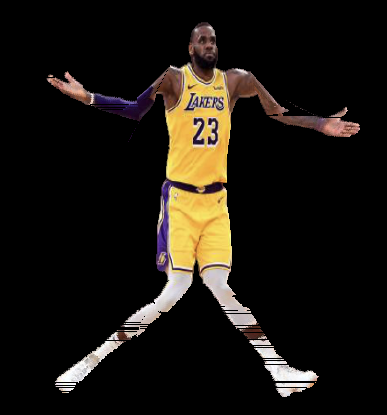
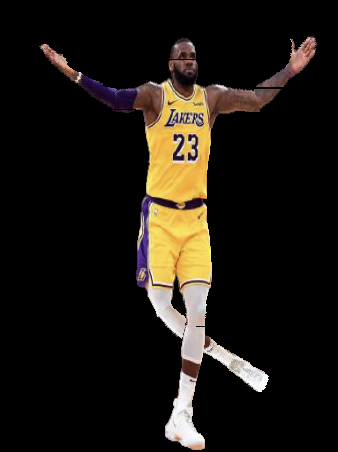
lower arm

Changed region(s): [[0.1183, 0.0578, 0.9467, 1.0]]

diff --git a/Data/Util.py b/Data/Util.py
@@ -147,7 +147,7 @@ class Util:
                 
         return trimmedBodyContour
 
-    def rotateContour(self, poseLine, contourPoints, angle, workImage, inputImage):
+    def rotateContour(self, poseLine, contourPoints, angleUpper, angleLower, workImage, inputImage):
         pointPartStart, pointPartEnd = poseLine
         
         startPointRange = self.findStartAndEnd(contourPoints, pointPartStart, pointPartStart, pointPartEnd)
@@ -164,13 +164,13 @@ class Util:
         wEndPointStart, hEndPointStart = contourPoints[endPointStartIndex]
         wEndPointEnd, hEndPointEnd = contourPoints[endPointEndIndex]
         
-        w2 = int((wEndPointEnd - w0) * math.cos(angle) - (hEndPointEnd - h0) * math.sin(angle) + w0)
-        h2 = int((wEndPointEnd - w0) * math.sin(angle) + (hEndPointEnd - h0) * math.cos(angle) + h0)
-        w3 = int((wEndPointStart - w0) * math.cos(angle) - (hEndPointStart - h0) * math.sin(angle) + w0)
-        h3 = int((wEndPointStart - w0) * math.sin(angle) + (hEndPointStart - h0) * math.cos(angle) + h0)
+        w2 = int((wEndPointEnd - w0) * math.cos(angleUpper) - (hEndPointEnd - h0) * math.sin(angleUpper) + w0)
+        h2 = int((wEndPointEnd - w0) * math.sin(angleUpper) + (hEndPointEnd - h0) * math.cos(angleUpper) + h0)
+        w3 = int((wEndPointStart - w0) * math.cos(angleUpper) - (hEndPointStart - h0) * math.sin(angleUpper) + w0)
+        h3 = int((wEndPointStart - w0) * math.sin(angleUpper) + (hEndPointStart - h0) * math.cos(angleUpper) + h0)
         
         rotatedContour = []
-        upperContour = []
+        lowerContour = []
         
         for point in startPointCutContour:
             rotatedContour.append(point)
@@ -178,17 +178,20 @@ class Util:
         # upper part
         for point in contourPoints[startPointStartIndex:endPointStartIndex]:
             w, h = point
-            wRotate = int((w - w0) * math.cos(angle) - (h - h0) * math.sin(angle) + w0)
-            hRotate = int((w - w0) * math.sin(angle) + (h - h0) * math.cos(angle) + h0)
+            wRotate = int((w - w0) * math.cos(angleUpper) - (h - h0) * math.sin(angleUpper) + w0)
+            hRotate = int((w - w0) * math.sin(angleUpper) + (h - h0) * math.cos(angleUpper) + h0)
             rotatedContour.append((wRotate, hRotate))
- 
+            
+        wRotateLower, hRotateLower = rotatedContour[-1]
         for point in endPointCutContour:
             w, h = point
-            wRotate = int((w - w0) * math.cos(angle) - (h - h0) * math.sin(angle) + w0)
-            hRotate = int((w - w0) * math.sin(angle) + (h - h0) * math.cos(angle) + h0)
-            rotatedContour.append((wRotate, hRotate))
-            upperContour.append((wRotate, hRotate))
-   
+            wRotate = int((w - w0) * math.cos(angleUpper) - (h - h0) * math.sin(angleUpper) + w0)
+            hRotate = int((w - w0) * math.sin(angleUpper) + (h - h0) * math.cos(angleUpper) + h0)
+            wRotate2 = int((wRotate - wRotateLower) * math.cos(angleLower) - (hRotate - hRotateLower) * math.sin(angleLower) + wRotateLower)
+            hRotate2 = int((wRotate - wRotateLower) * math.sin(angleLower) + (hRotate - hRotateLower) * math.cos(angleLower) + hRotateLower)
+            rotatedContour.append((wRotate2, hRotate2))
+            lowerContour.append((wRotate2, hRotate2))
+        
         controlPointsInput = [contourPoints[startPointStartIndex], contourPoints[startPointEndIndex], contourPoints[endPointEndIndex]]
         controlPointsOutput = [contourPoints[startPointStartIndex], contourPoints[startPointEndIndex], (w2, h2)]
   
@@ -198,17 +201,29 @@ class Util:
         
         upperContourInput = [contourPoints[startPointStartIndex], contourPoints[startPointEndIndex], contourPoints[endPointStartIndex], contourPoints[endPointEndIndex]]
         upperContourOutput = [contourPoints[startPointStartIndex], contourPoints[startPointEndIndex], (w3, h3), (w2, h2)]
-        self.drawMappedContour(rotatedContour, workImage, inputImage, upperContourOutput, upperContourInput)
+        upperContourRefine = []
+        for i in range(0, len(rotatedContour) - 1):
+          for point in self.getInterpolatePoints(rotatedContour[i], rotatedContour[i+1]):
+            upperContourRefine.append(point) 
+        self.drawMappedContour(upperContourRefine, workImage, inputImage, upperContourOutput, upperContourInput)
         
         
         #lower part
+        #wRotateLower, hRotateLower = lowerContour[0]
         for point in contourPoints[endPointStartIndex:endPointEndIndex]:
             w, h = point
-            wRotate = int((w - w0) * math.cos(angle) - (h - h0) * math.sin(angle) + w0)
-            hRotate = int((w - w0) * math.sin(angle) + (h - h0) * math.cos(angle) + h0)
-            rotatedContour.append((wRotate, hRotate))
-            upperContour.append((wRotate, hRotate))
-        self.drawRotatedContour(upperContour, workImage, inputImage, -angle, w0, h0)
+            wRotate = int((w - w0) * math.cos(angleUpper) - (h - h0) * math.sin(angleUpper) + w0)
+            hRotate = int((w - w0) * math.sin(angleUpper) + (h - h0) * math.cos(angleUpper) + h0)
+            wRotate2 = int((wRotate - wRotateLower) * math.cos(angleLower) - (hRotate - hRotateLower) * math.sin(angleLower) + wRotateLower)
+            hRotate2 = int((wRotate - wRotateLower) * math.sin(angleLower) + (hRotate - hRotateLower) * math.cos(angleLower) + hRotateLower)
+            rotatedContour.append((wRotate2, hRotate2))
+            lowerContour.append((wRotate2, hRotate2))
+            
+        lowerContourRefine = []
+        for i in range(0, len(lowerContour) - 1):
+          for point in self.getInterpolatePoints(lowerContour[i], lowerContour[i+1]):
+            lowerContourRefine.append(point)    
+        self.drawRotatedContour(lowerContourRefine, workImage, inputImage, -angleUpper, w0, h0, -angleLower, wRotateLower, hRotateLower)
         
         return rotatedContour
 
@@ -260,7 +275,7 @@ class Util:
             controlPointsOutput = [upperContourOutput[1], upperContourOutput[2], upperContourOutput[3]]
             return self.mapPoint(point, controlPointsInput, controlPointsOutput)
 
-    def drawRotatedContour(self, contour, workImage, inputImage, angle, w0, h0):
+    def drawRotatedContour(self, contour, workImage, inputImage, angleUpper, w0, h0, angleLower, wLower, hLower):
       hMin = self.inHeight
       hMax = -1
       for point in contour:
@@ -281,10 +296,12 @@ class Util:
             if w > wMax:
               wMax = w
         for w in range(wMin, wMax):
-          wRotate = int((w - w0) * math.cos(angle) - (h - h0) * math.sin(angle) + w0)
-          hRotate = int((w - w0) * math.sin(angle) + (h - h0) * math.cos(angle) + h0)
+          wRotate = int((w - w0) * math.cos(angleUpper) - (h - h0) * math.sin(angleUpper) + w0)
+          hRotate = int((w - w0) * math.sin(angleUpper) + (h - h0) * math.cos(angleUpper) + h0)
+          wRotate2 = int((wRotate - wLower) * math.cos(angleLower) - (hRotate - hLower) * math.sin(angleLower) + wLower)
+          hRotate2 = int((wRotate - wLower) * math.sin(angleLower) + (hRotate - hLower) * math.cos(angleLower) + hLower)
             
-          workImage[h, w] = inputImage[hRotate, wRotate]   
+          workImage[h, w] = inputImage[hRotate2, wRotate2]   
     
     def drawMappedContour(self, contour, workImage, inputImage, upperContourInput, upperContourOutput):
       hMin = self.inHeight

diff --git a/main.py b/main.py
@@ -28,22 +28,22 @@ util.drawContour(bodyContour, workImage, dataLoader.inputImageResize)
 #     workImage[hh, ww] = (0, 255, 255)
       
 
-rotatedLeftArmContour = util.rotateContour(poseLines[3], inputContourPointsRefine, -math.pi / 6, workImage, dataLoader.inputImageResize)
+rotatedLeftArmContour = util.rotateContour(poseLines[3], inputContourPointsRefine, -math.pi / 6, math.pi / 12, workImage, dataLoader.inputImageResize)
 # for point in rotatedLeftArmContour:
 #     ww, hh = point
 #     workImage[hh, ww] = (0, 255, 255)
     
-rotatedRightArmContour = util.rotateContour(poseLines[5], inputContourPointsRefine, math.pi / 6, workImage, dataLoader.inputImageResize)
+rotatedRightArmContour = util.rotateContour(poseLines[5], inputContourPointsRefine, math.pi / 6, -math.pi / 6, workImage, dataLoader.inputImageResize)
 # for point in rotatedRightArmContour:
 #     ww, hh = point
 #     workImage[hh, ww] = (0, 255, 255)
     
-rotatedLeftLegContour = util.rotateContour(poseLines[8], inputContourPointsRefine, math.pi / 6, workImage, dataLoader.inputImageResize)
+rotatedLeftLegContour = util.rotateContour(poseLines[8], inputContourPointsRefine, -math.pi / 6, -math.pi / 6, workImage, dataLoader.inputImageResize)
 # for point in rotatedLeftLegContour:
 #     ww, hh = point
 #     workImage[hh, ww] = (0, 255, 255)
     
-rotatedRightLegContour = util.rotateContour(poseLines[11], inputContourPointsRefine, -math.pi / 6, workImage, dataLoader.inputImageResize)
+rotatedRightLegContour = util.rotateContour(poseLines[11], inputContourPointsRefine, 0, 0, workImage, dataLoader.inputImageResize)
 # for point in rotatedRightLegContour:
 #     ww, hh = point
 #     workImage[hh, ww] = (0, 255, 255)    
